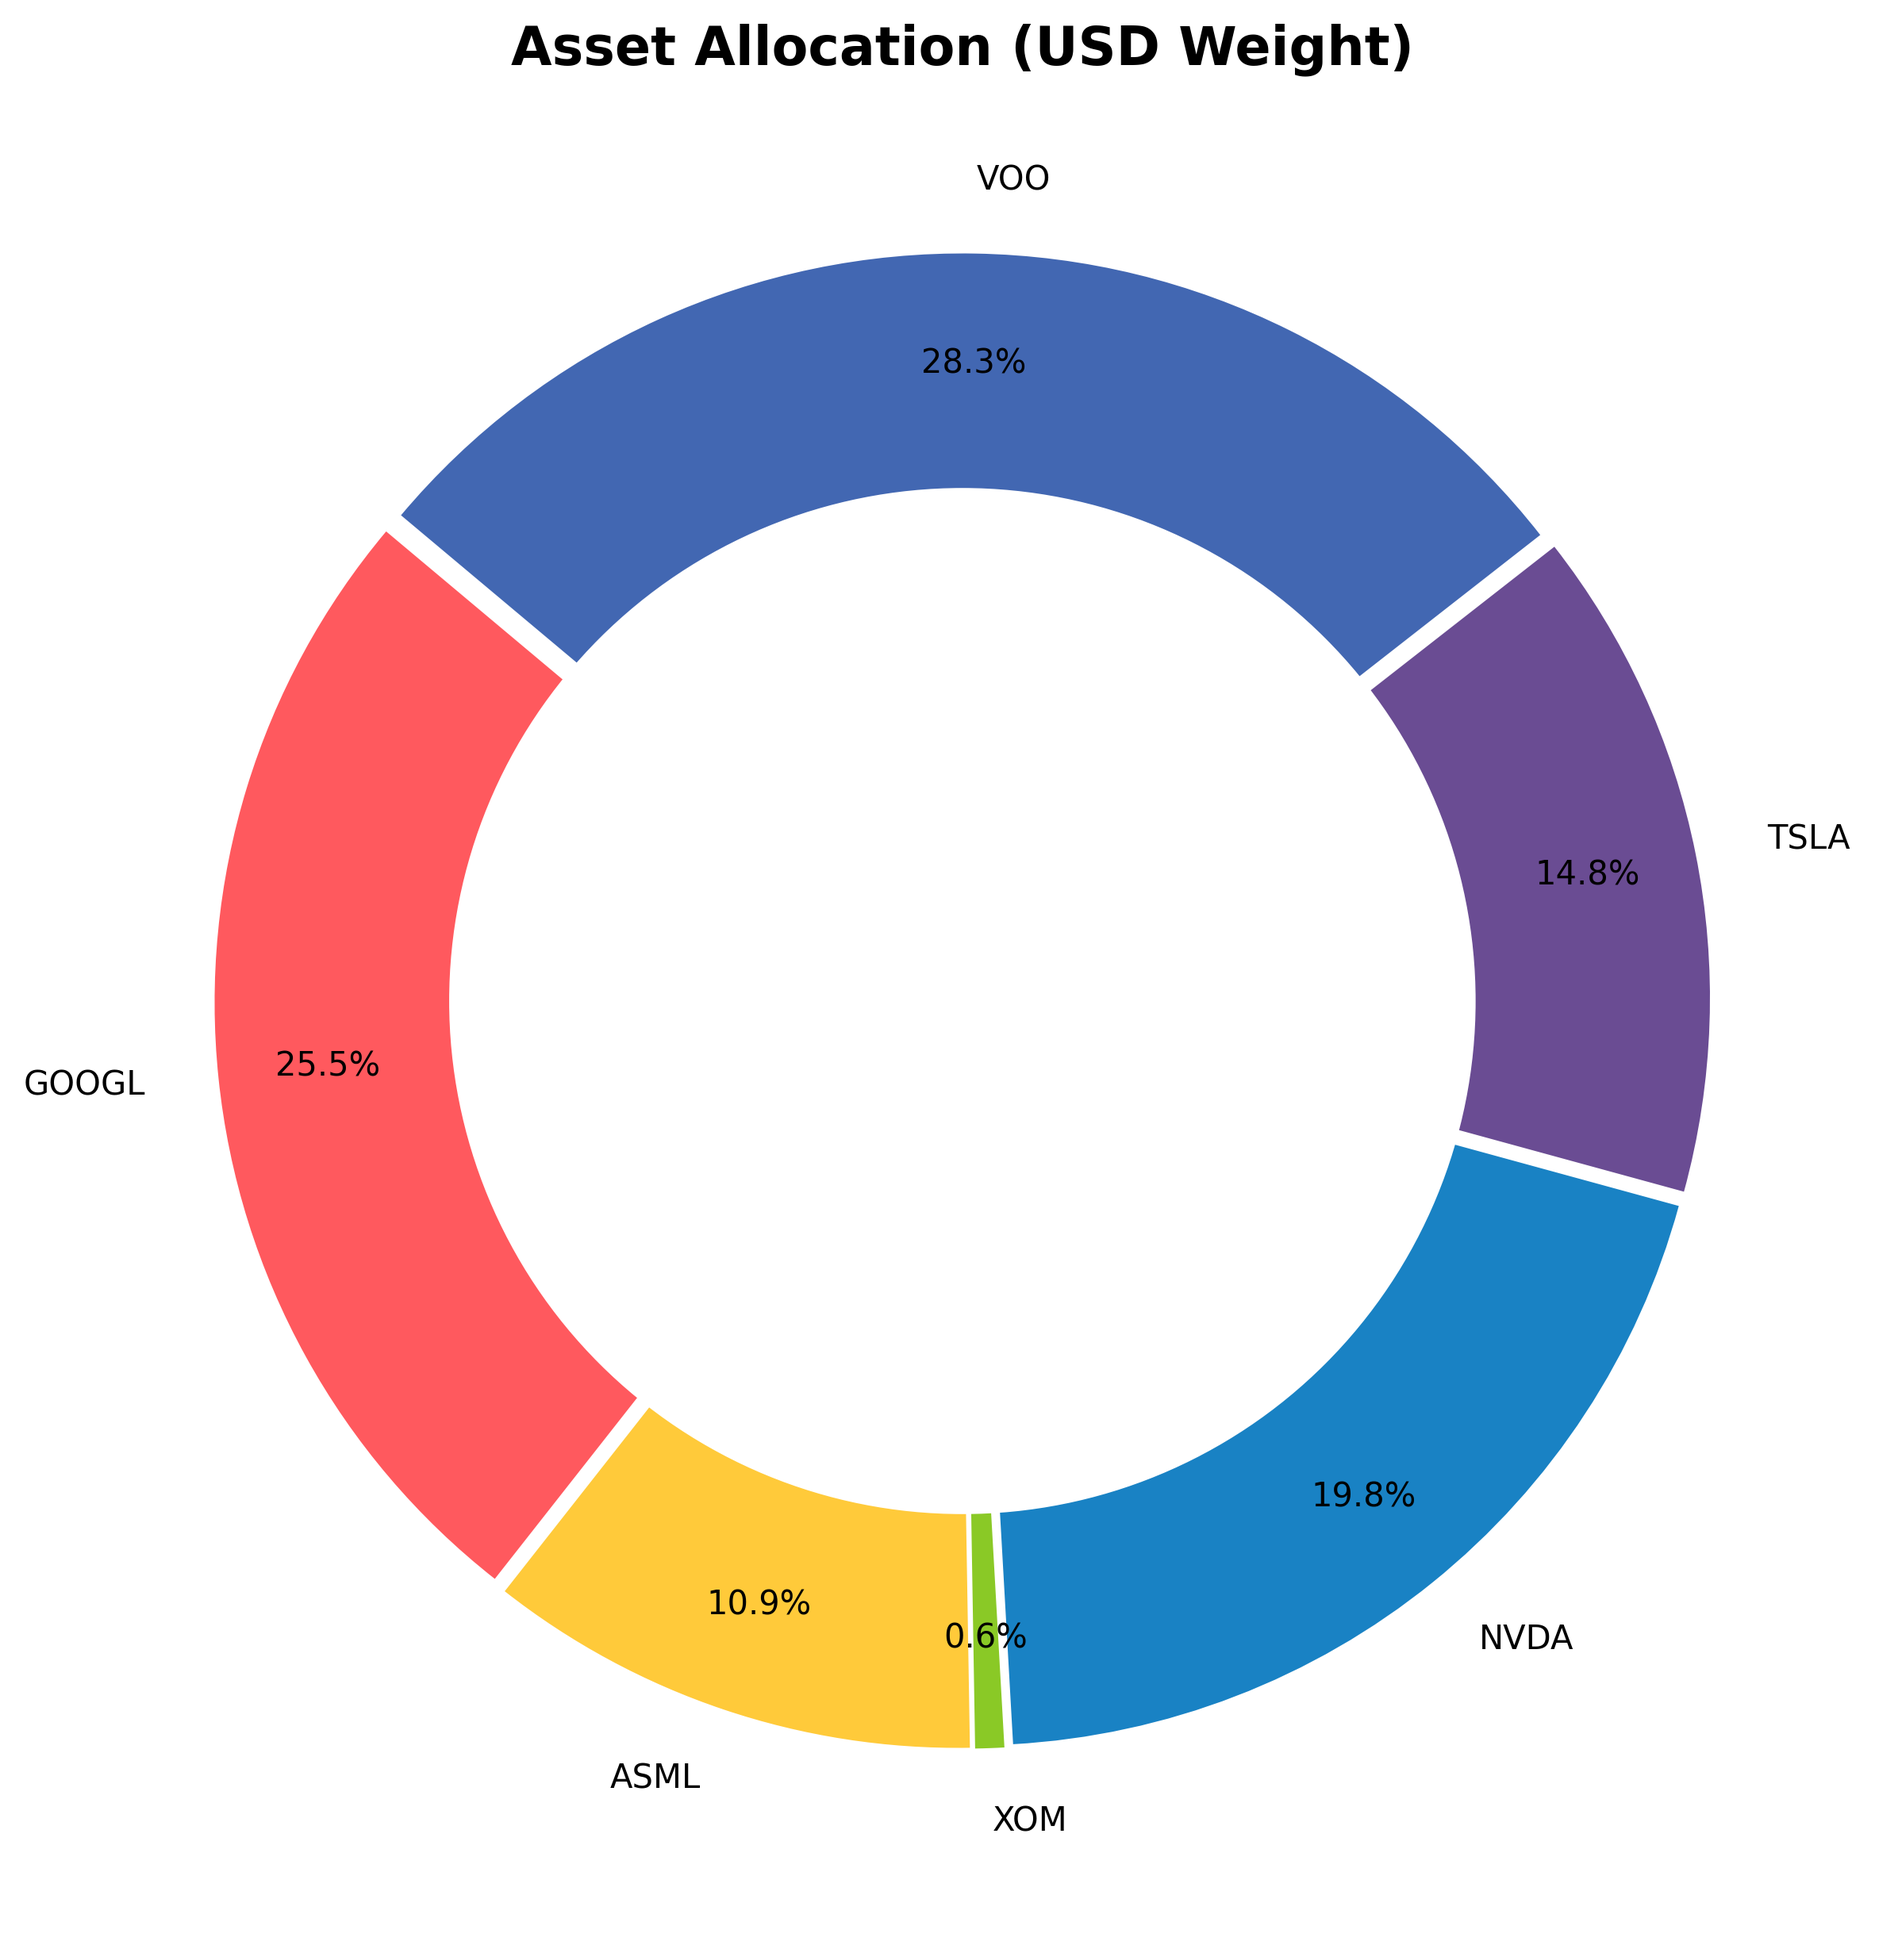
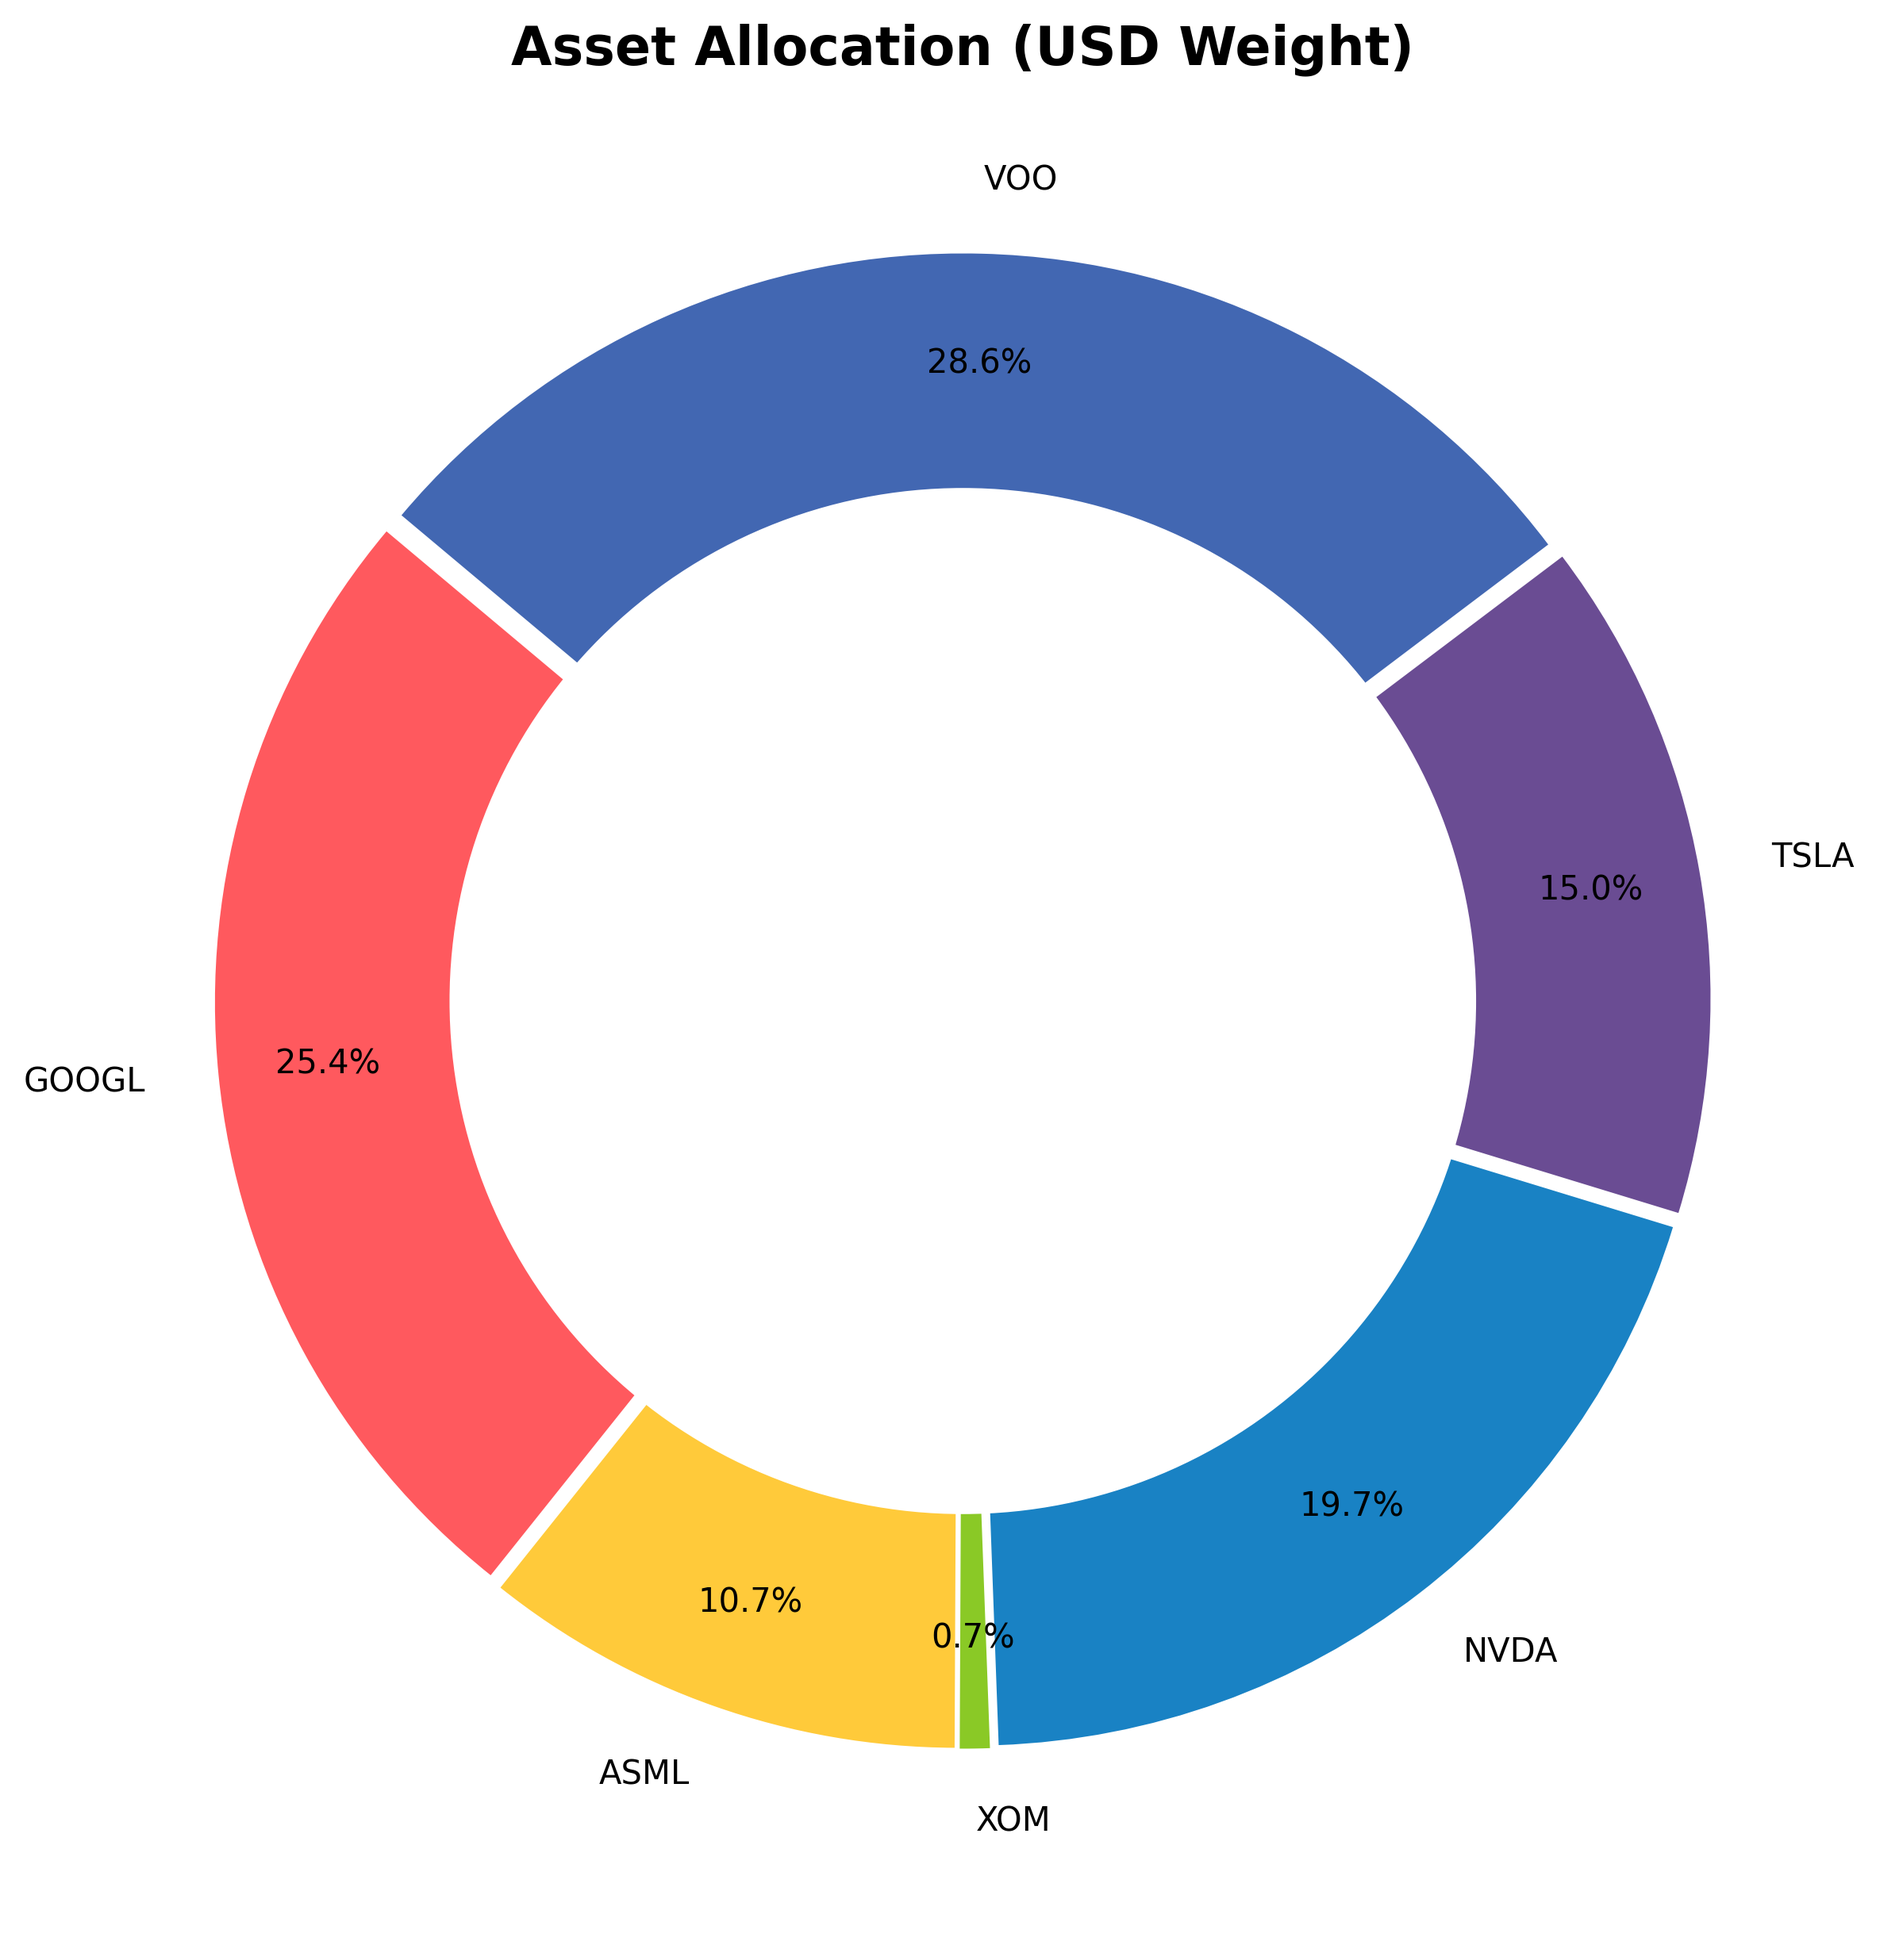
System Run: Analytics & Archive Update [skip ci]

diff --git a/README.md b/README.md
@@ -1,23 +1,23 @@
 # 📊 Portfolio Dashboard | מעקב תיק השקעות
-**Last Update:** 26/03/2026 17:12 | **USD/ILS:** ₪3.123
+**Last Update:** 26/03/2026 19:10 | **USD/ILS:** ₪3.130
 
 ## 💰 Portfolio Summary | סיכום התיק
 | Metric | Value | נתון |
 | :--- | :--- | :--- |
-| **Current Value** | `₪160,269` | **שווי נוכחי** |
-| **Total Invested** | `₪131,173` | **סך השקעה** |
-| **Total Profit/Loss** | `+22.18%` (₪29,096) | **רווח/הפסד כולל** |
-| **Daily Change** | `-0.83%` | **שינוי יומי** |
+| **Current Value** | `₪157,322` | **שווי נוכחי** |
+| **Total Invested** | `₪131,450` | **סך השקעה** |
+| **Total Profit/Loss** | `+19.68%` (₪25,872) | **רווח/הפסד כולל** |
+| **Daily Change** | `-2.30%` | **שינוי יומי** |
 
 ## 📜 Holdings | פירוט החזקות
 | Ticker | Shares | Avg. Cost | Current Price | P&L % | P&L ILS |
 | :--- | :--- | :--- | :--- | :--- | :--- |
-| GOOGL | 45 | $181.15 | $290.92 | 🟢 +60.60% | ₪15,428 |
-| ASML | 4 | $934.51 | $1,393.77 | 🟢 +49.14% | ₪5,737 |
-| XOM | 2 | $126.08 | $163.26 | 🟢 +29.49% | ₪232 |
-| NVDA | 57 | $148.62 | $178.67 | 🟢 +20.22% | ₪5,350 |
-| TSLA | 20 | $436.45 | $380.08 | 🔴 -12.92% | ₪-3,521 |
-| VOO | 24 | $527.38 | $605.70 | 🟢 +14.85% | ₪5,871 |
+| GOOGL | 45 | $181.15 | $283.58 | 🟢 +56.54% | ₪14,426 |
+| ASML | 4 | $934.51 | $1,338.50 | 🟢 +43.23% | ₪5,058 |
+| XOM | 2 | $126.08 | $165.07 | 🟢 +30.92% | ₪244 |
+| NVDA | 57 | $148.62 | $173.63 | 🟢 +16.83% | ₪4,462 |
+| TSLA | 20 | $436.45 | $377.62 | 🔴 -13.48% | ₪-3,683 |
+| VOO | 24 | $527.38 | $598.80 | 🟢 +13.54% | ₪5,365 |
 
 ## 📈 Charts | גרפים
 ![Performance](./data_hub/portfolio_performance.png)
